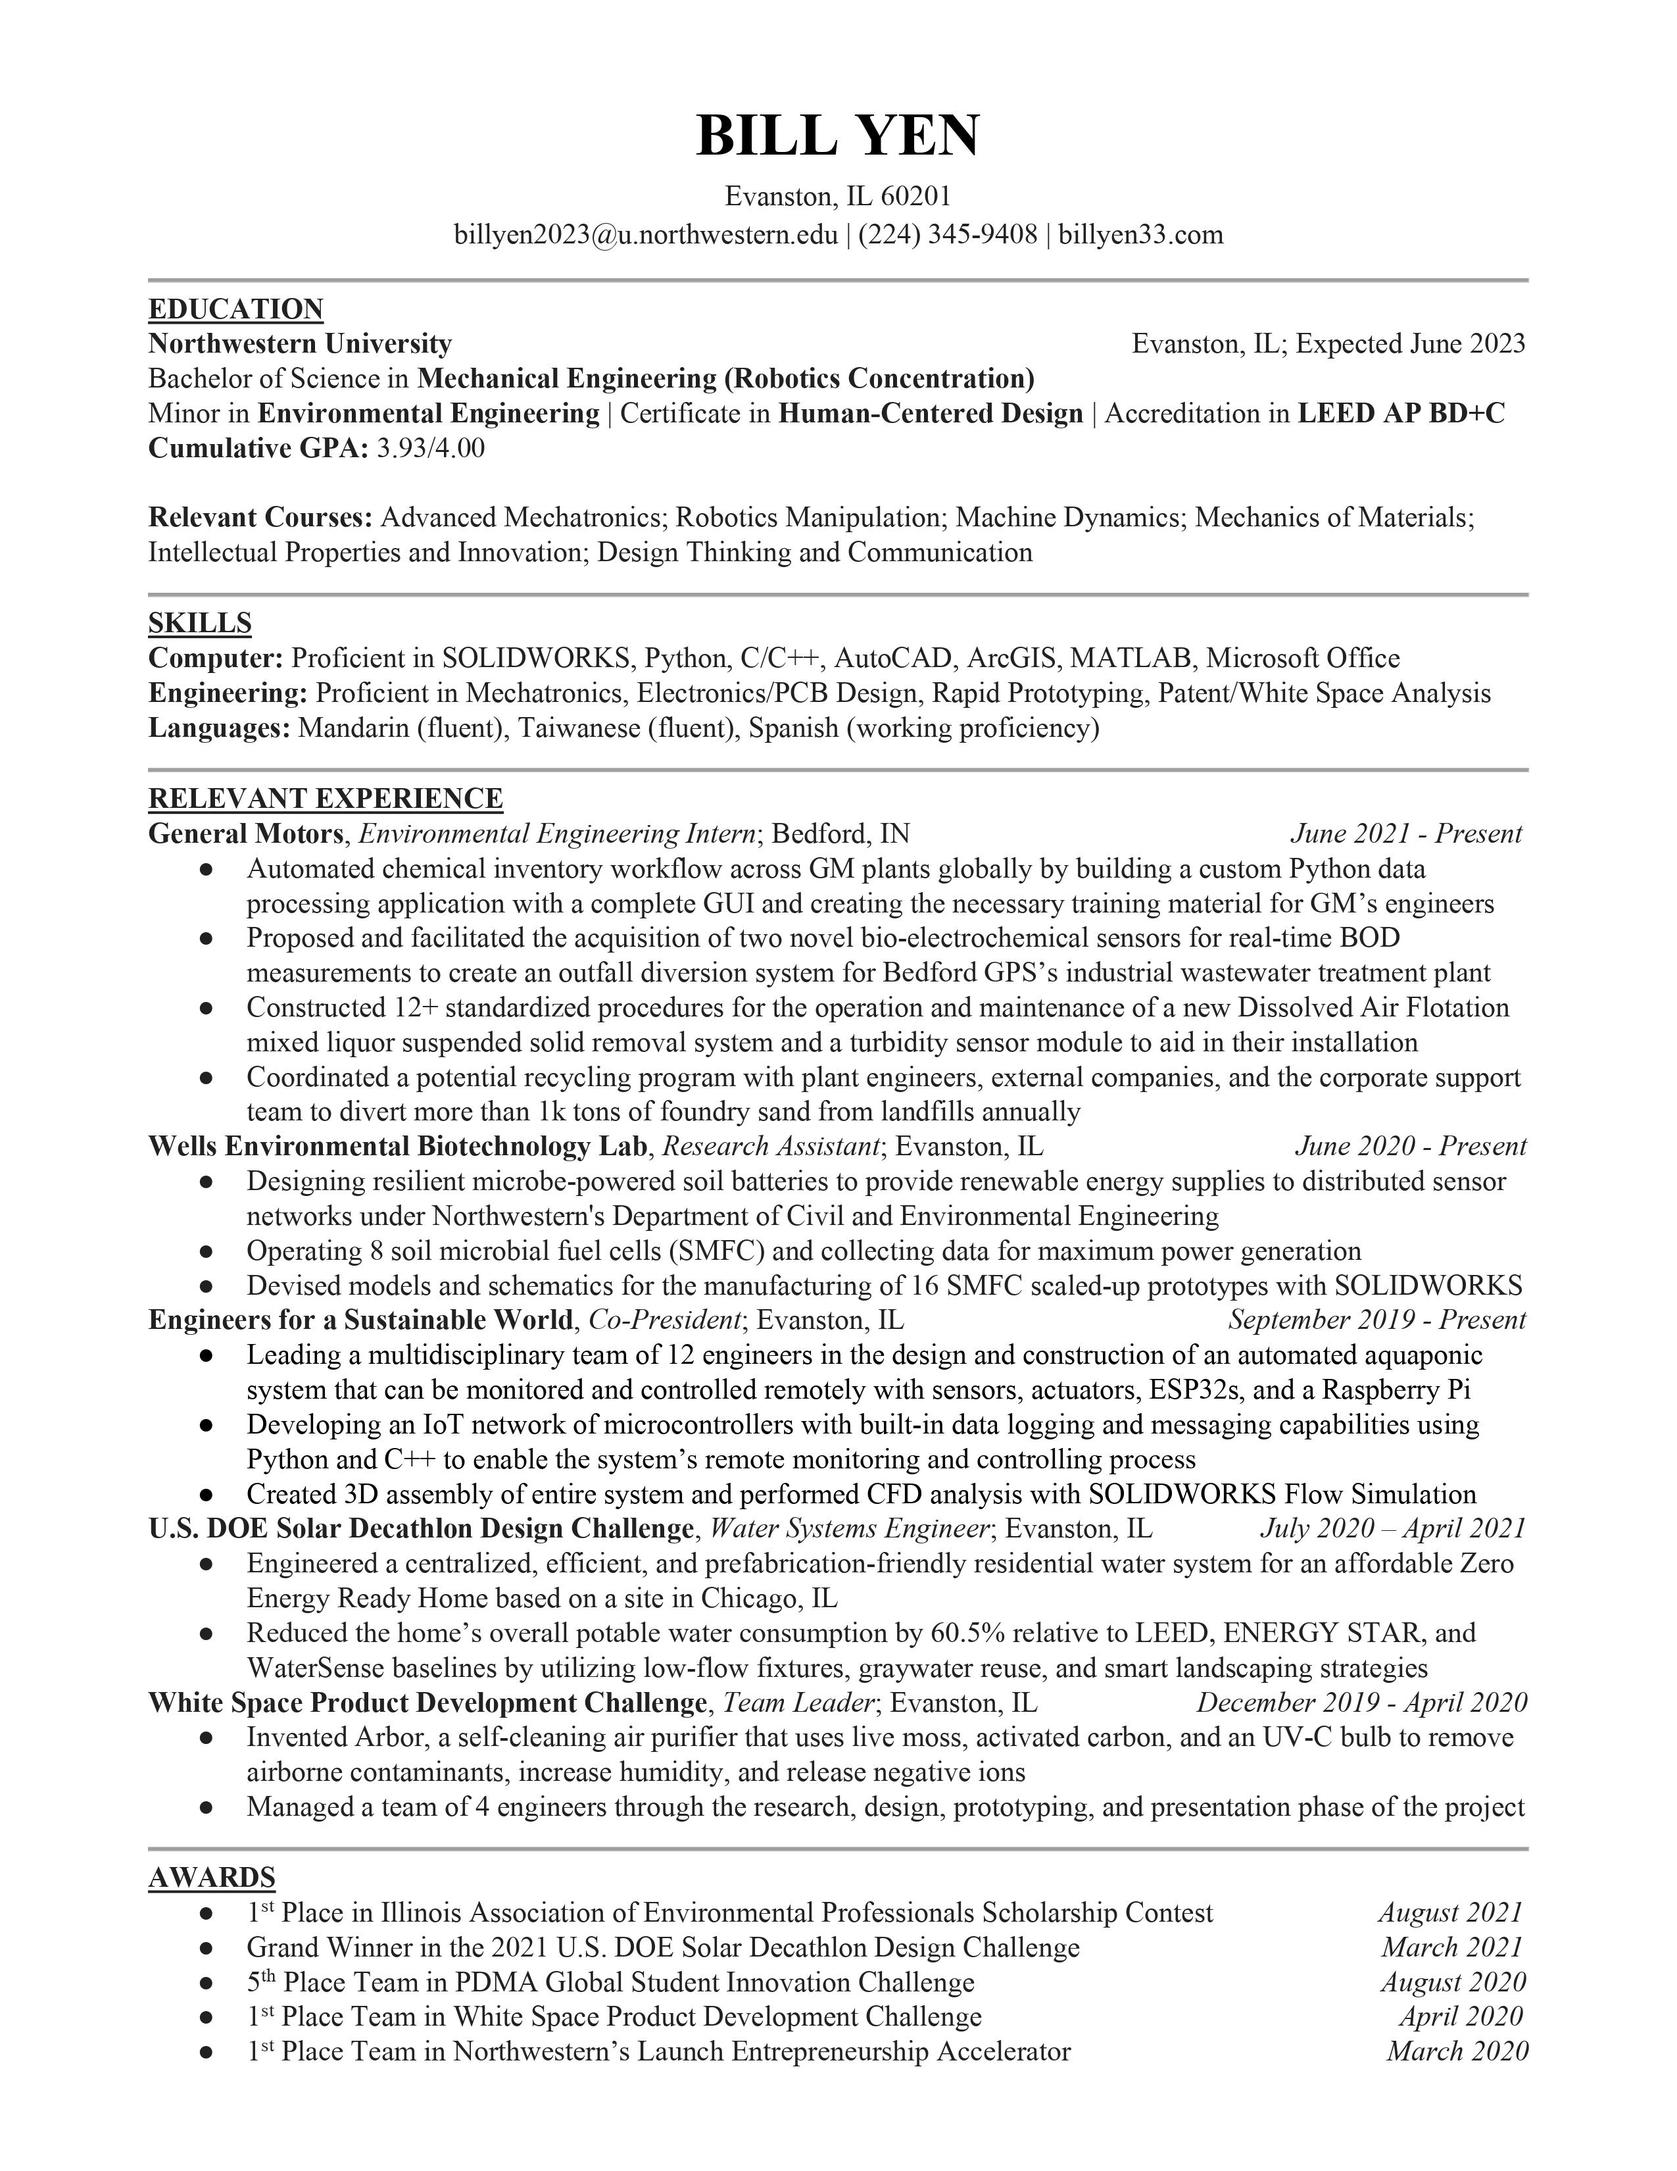
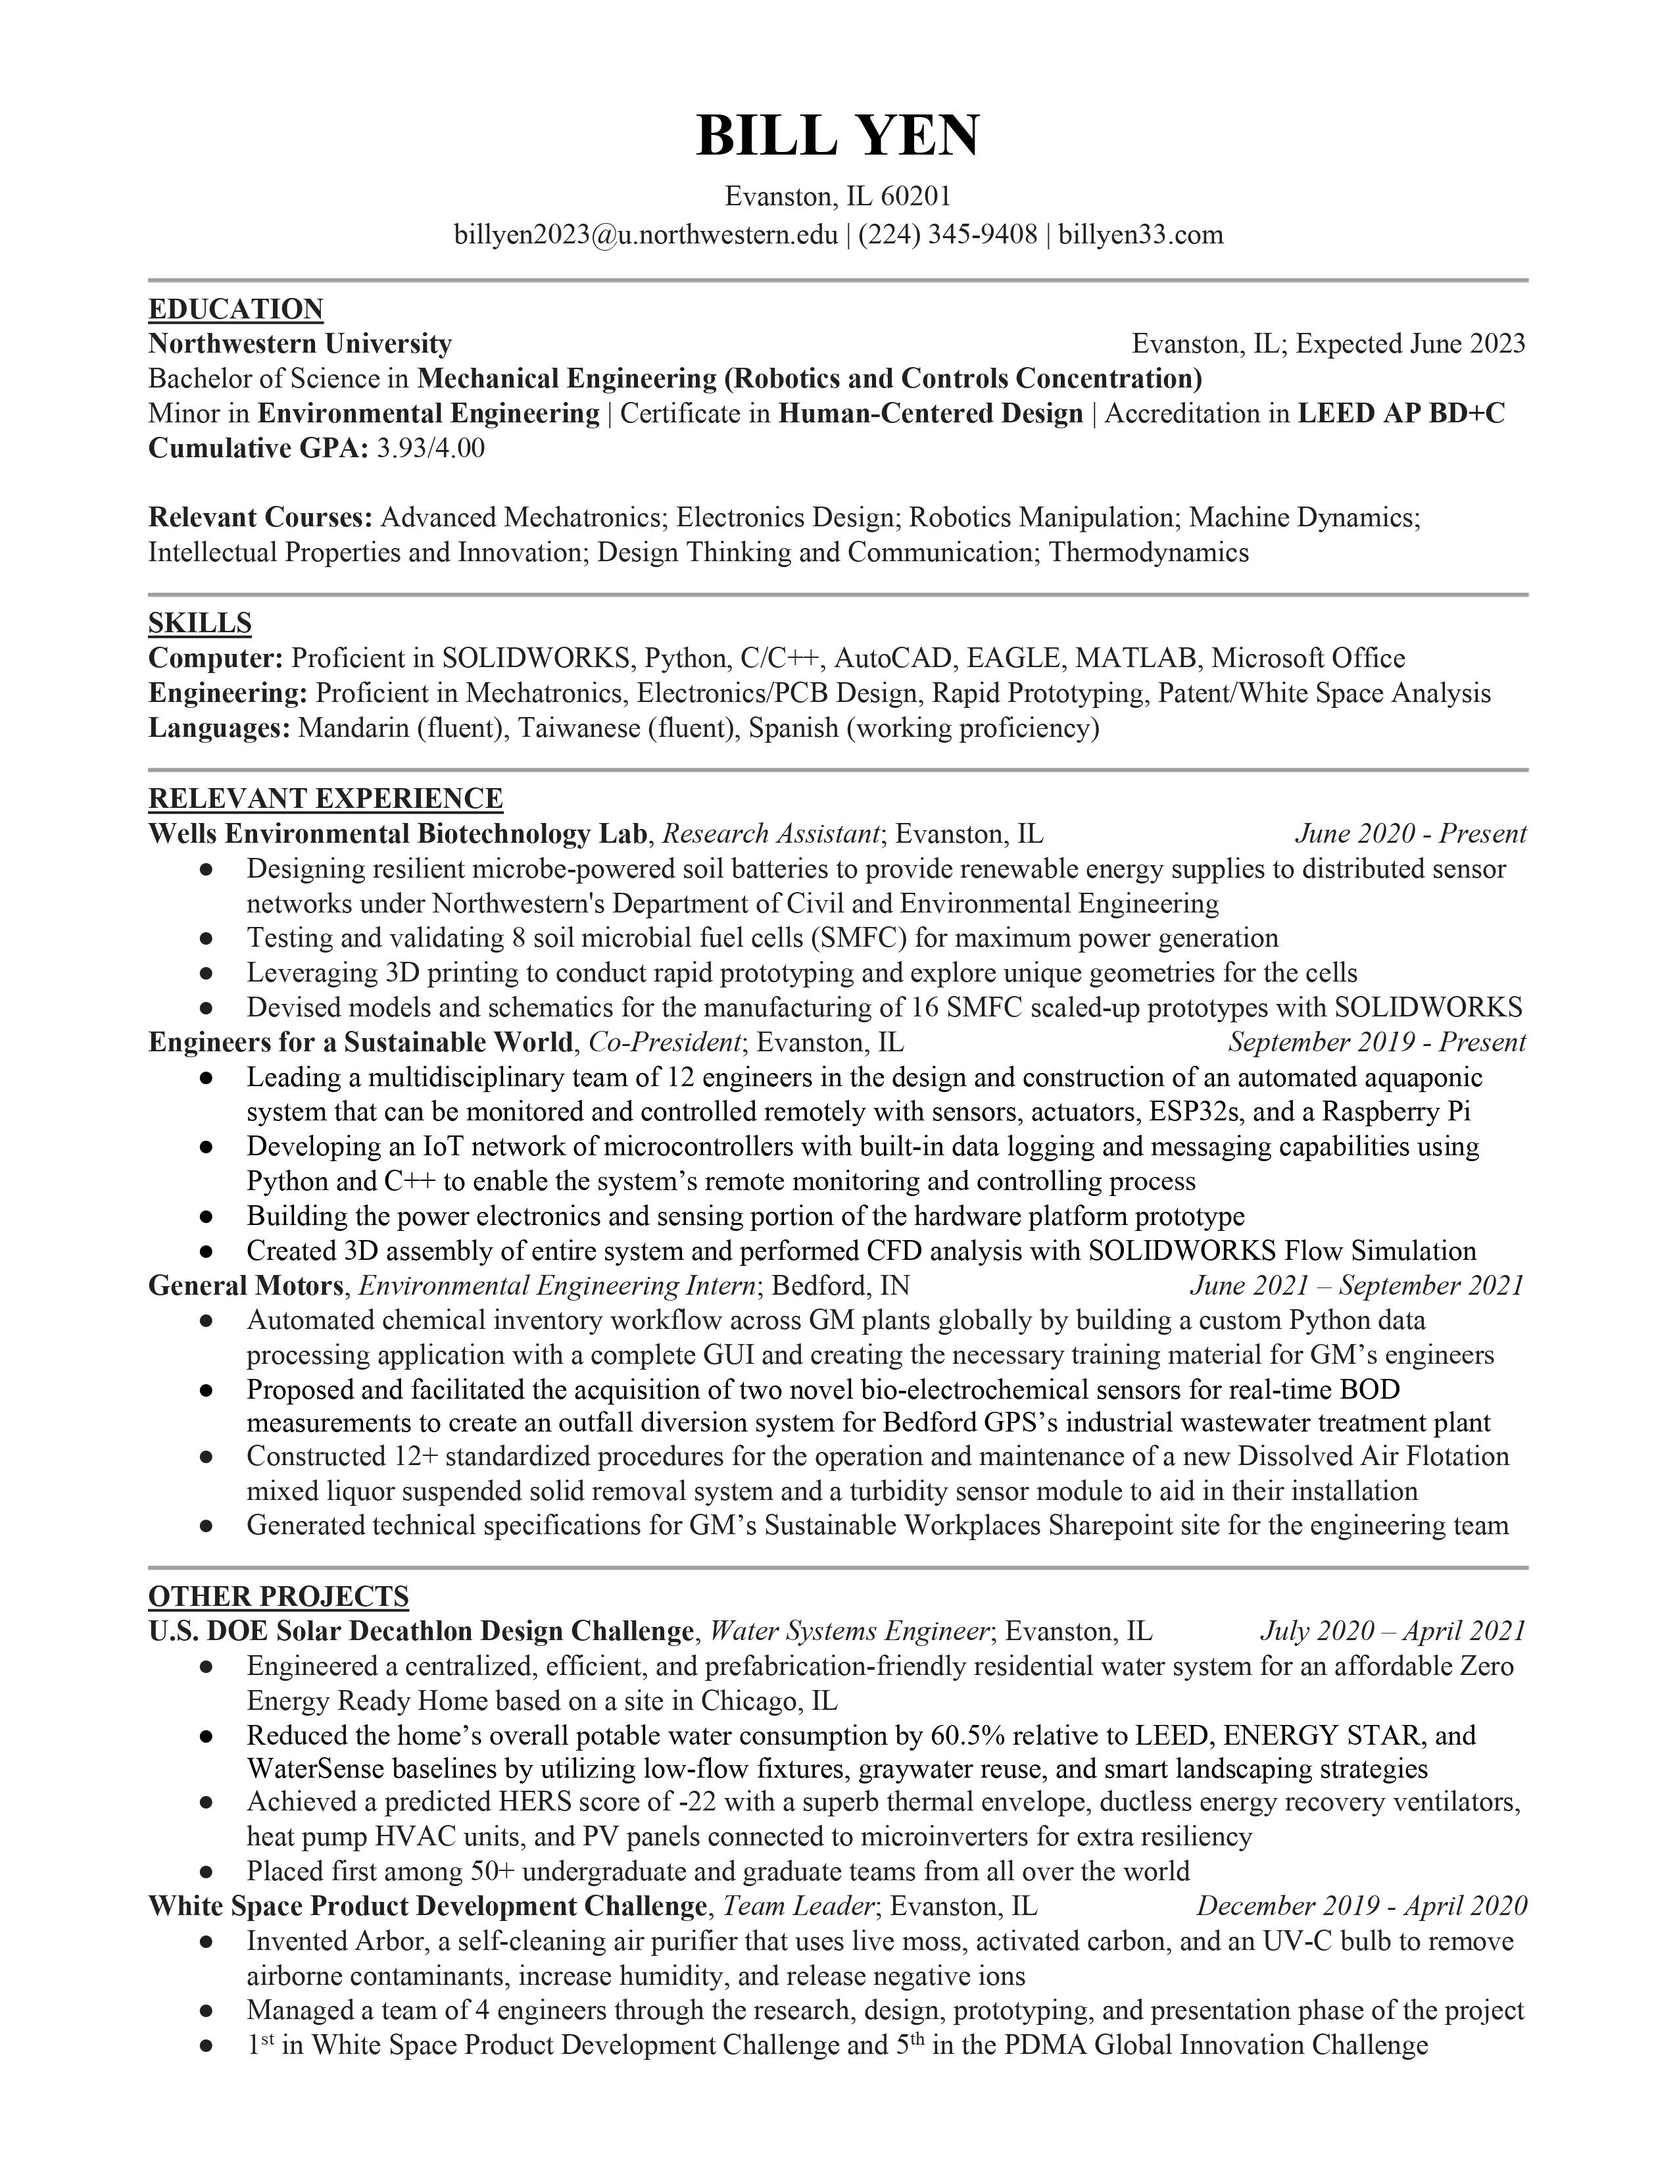
updated resume and award

Changed region(s): [[0.0929, 0.3745, 0.8984, 0.9676], [0.4027, 0.2185, 0.8675, 0.3121], [0.4957, 0.1561, 0.7125, 0.1873]]

diff --git a/index.html b/index.html
@@ -432,6 +432,11 @@ https://templatemo.com/tm-531-reflux
             <h2>Awards</h2>
             <div class="line-dec"></div>
             <span3>
+              <li><strong>EEBA NextGen Scholar (9/2021)</strong></li>
+              <p>The Energy & Environmental Building Alliance</p>
+              <div>
+                Received a scholarship to travel to Denver, CO to attend EEBA’s 2021 High Performance Home Summit to present Northwestern’s winning design from the 2021 Solar Decathlon Building Design Challenge.
+              </div>
               <li><strong>1st Place in IAEP Student Scholarship Contest (8/2021)</strong></li>
               <p>Illinois Association of Environmental Professionals</p>
               <div>
